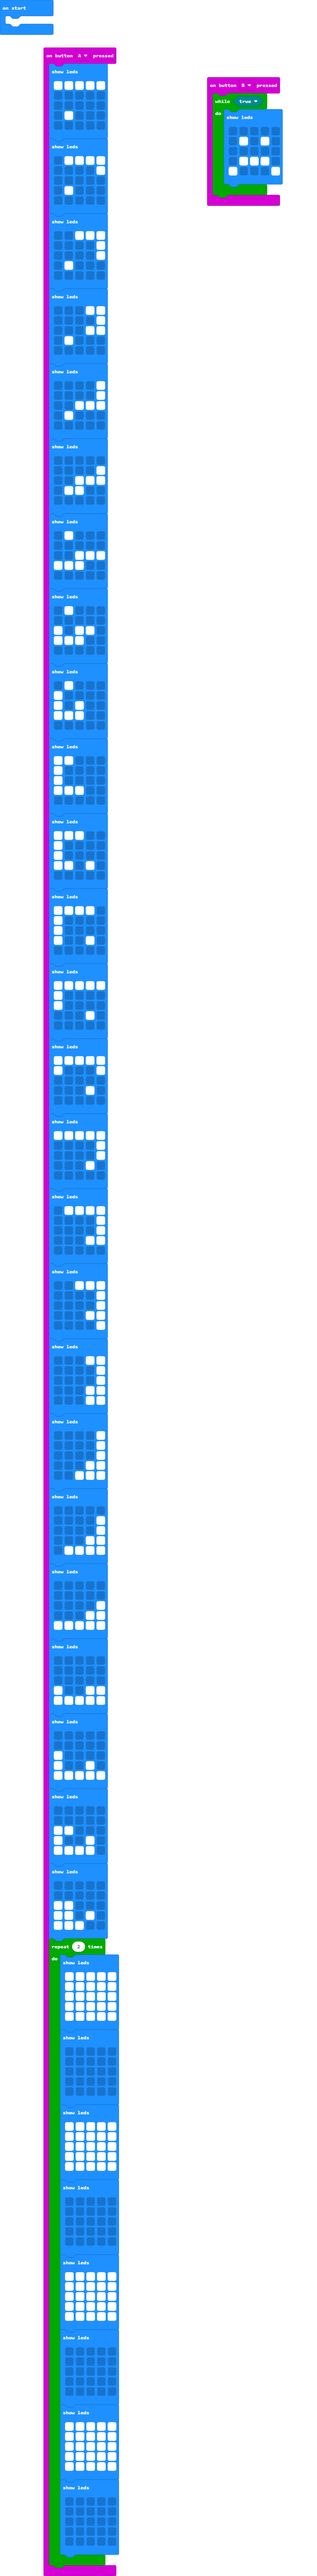
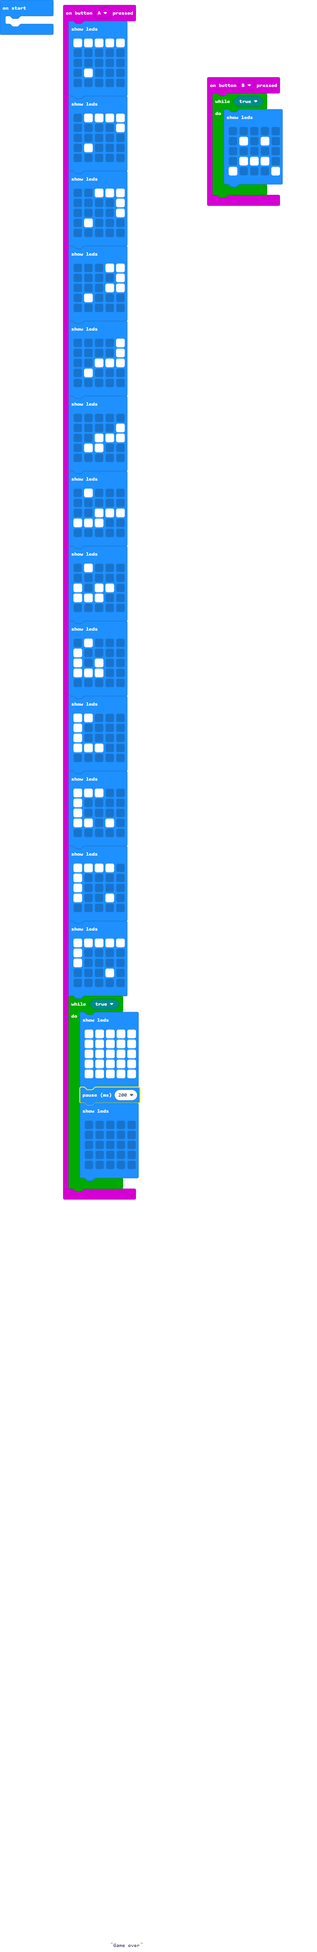
Made the snakes story shorter, added a while loop to the game over screen, added a 200ms delay to make the game over strobe effect slower

Changed region(s): [[0.0, 0.0, 0.4574, 1.0], [0.6404, 0.0312, 0.9148, 0.125]]

diff --git a/main.ts b/main.ts
@@ -90,91 +90,7 @@ input.onButtonPressed(Button.A, function () {
         . . . # .
         . . . . .
         `)
-    basic.showLeds(`
-        # # # # #
-        # . . . #
-        . . . . .
-        . . . # .
-        . . . . .
-        `)
-    basic.showLeds(`
-        # # # # #
-        . . . . #
-        . . . . #
-        . . . # .
-        . . . . .
-        `)
-    basic.showLeds(`
-        . # # # #
-        . . . . #
-        . . . . #
-        . . . # #
-        . . . . .
-        `)
-    basic.showLeds(`
-        . . # # #
-        . . . . #
-        . . . . #
-        . . . # #
-        . . . . #
-        `)
-    basic.showLeds(`
-        . . . # #
-        . . . . #
-        . . . . #
-        . . . # #
-        . . . # #
-        `)
-    basic.showLeds(`
-        . . . . #
-        . . . . #
-        . . . . #
-        . . . # #
-        . . # # #
-        `)
-    basic.showLeds(`
-        . . . . .
-        . . . . #
-        . . . . #
-        . . . # #
-        . # # # #
-        `)
-    basic.showLeds(`
-        . . . . .
-        . . . . .
-        . . . . #
-        . . . # #
-        # # # # #
-        `)
-    basic.showLeds(`
-        . . . . .
-        . . . . .
-        . . . . .
-        # . . # #
-        # # # # #
-        `)
-    basic.showLeds(`
-        . . . . .
-        . . . . .
-        # . . . .
-        # . . # .
-        # # # # #
-        `)
-    basic.showLeds(`
-        . . . . .
-        . . . . .
-        # # . . .
-        # . . # .
-        # # # # .
-        `)
-    basic.showLeds(`
-        . . . . .
-        . . . . .
-        # # . . .
-        # # . # .
-        # # # . .
-        `)
-    for (let index = 0; index < 2; index++) {
+    while (true) {
         basic.showLeds(`
             # # # # #
             # # # # #
@@ -182,48 +98,7 @@ input.onButtonPressed(Button.A, function () {
             # # # # #
             # # # # #
             `)
-        basic.showLeds(`
-            . . . . .
-            . . . . .
-            . . . . .
-            . . . . .
-            . . . . .
-            `)
-        basic.showLeds(`
-            # # # # #
-            # # # # #
-            # # # # #
-            # # # # #
-            # # # # #
-            `)
-        basic.showLeds(`
-            . . . . .
-            . . . . .
-            . . . . .
-            . . . . .
-            . . . . .
-            `)
-        basic.showLeds(`
-            # # # # #
-            # # # # #
-            # # # # #
-            # # # # #
-            # # # # #
-            `)
-        basic.showLeds(`
-            . . . . .
-            . . . . .
-            . . . . .
-            . . . . .
-            . . . . .
-            `)
-        basic.showLeds(`
-            # # # # #
-            # # # # #
-            # # # # #
-            # # # # #
-            # # # # #
-            `)
+        basic.pause(200)
         basic.showLeds(`
             . . . . .
             . . . . .
